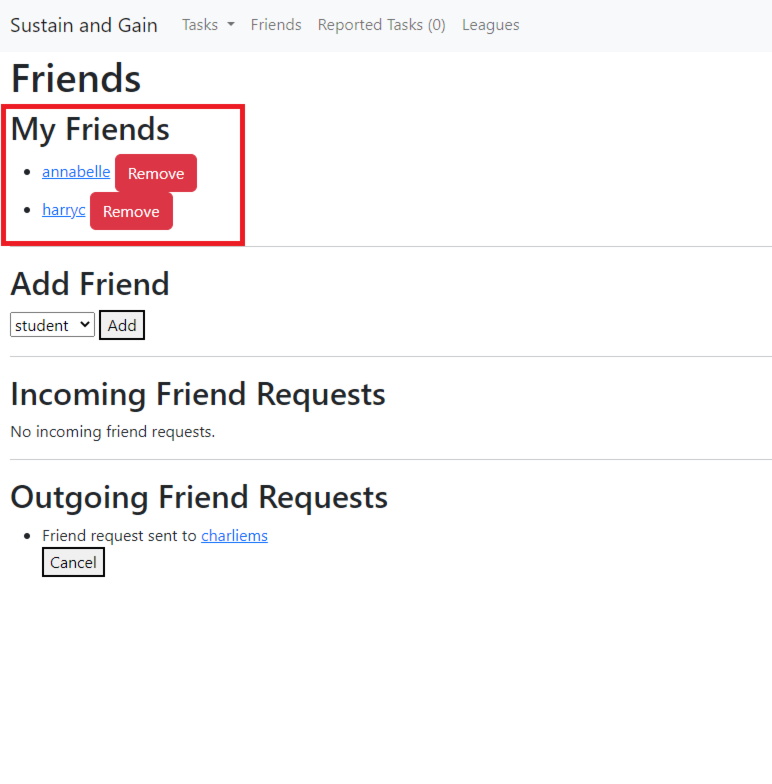
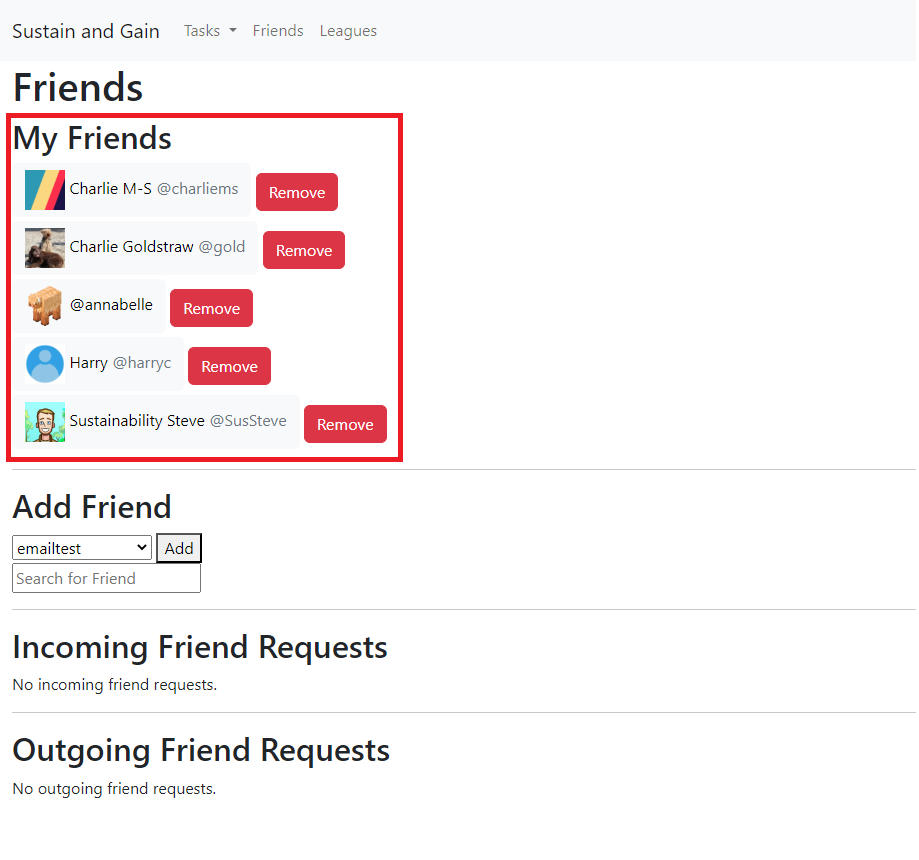
updated friends and profile doc page
added some marketing speak to the pages

Changed region(s): [[0.0, 0.0306, 0.5596, 0.8265], [0.0, 0.8571, 0.4352, 0.949], [0.6218, 0.0306, 0.6528, 0.0612]]

diff --git a/docs/the-game/profile.md b/docs/the-game/profile.md
@@ -2,12 +2,28 @@
 sidebar_position: 1
 ---
 
-# Profile
-The profile page allows you to view your own information. This information includes:
-- Profile Picture
-- About Section
-- Friends
-- Points
+# Your Personalized Profile Experience
+Welcome to your profile page! This is where you can showcase a brief description of yourself, add friends and keep track of your points. You have the power to make it unique and personalized just like you!
+
+## The Power of Profile Pictures
+First impressions matter! That's why we give great importance to your profile picture which perfectly captures who you are at a glance. It's displayed prominently at the top of your profile page.
+
+## Express Yourself with Your Bio
+We believe that everyone has their story to tell. Use the "About" section on your profile page as a platform to express yourself by sharing a brief bio or description about yourself!
+
+## Updating Your Profile for Success
+Want to update your information? Our "Edit Profile" and "Edit Bio" buttons on your profile page make it easy for you to update any relevant personal details or info.
+
+## Friends Help Friends Win!
+Curious about what your friends are up to? View their profiles using our user-friendly interface directly from yours! It's never been easier.
+
+## Points Equal Success
+An integral part of our gamified experience is earning points through completing tasks or activities on our platform. Track and celebrate all of the points you've accumulated from one convenient place!
+
+## Join Leagues Like A Pro!
+Competitive spirit burning inside? Join leagues with like-minded individuals - visit their pages directly from yours by clicking on them in one straightforward step!
+
+Make sure that YOUR story stands out - personalize and enhance every aspect of YOUR profile with us today!
 
 ![Overview Profile picture](./assets/profile1.png)
 
@@ -18,7 +34,7 @@ The about section allows you to add a brief bio or description of yourself.
 
 
 ## Editing Your Profile
-By clicking either the change or add link on the profile page you will be able to edit the information on your profile.
+By clicking either the "Edit Profile" button or "Edit Bio" button on the profile page you will be able to edit the information on your profile.
 ![Editing Profile](./assets/profile2.png)
 
 Once you have clicked either of these you will be taken to the profile update page.
@@ -31,8 +47,10 @@ From the profile page you are able to see a list of your friends as well as clic
 ![Friends List Profile](./assets/profile4.png)
 
 ## Points
-Finally, you are able to view the amount of points that you currently have as well as click the "Get more :)" text which will
+You are able to view the amount of points that you currently have as well as click on them which will
 take you to the available tasks page
 ![Points profile](./assets/profile5.png)
 
-
+## Leagues
+Finally, you are able to see the leagues you are a part of as well as click on them to go to their league page.
+![Leagues profile](./assets/profile6.png)

diff --git a/docs/the-game/friends.md b/docs/the-game/friends.md
@@ -4,13 +4,25 @@ sidebar_position: 2
 
 # Friends
 
-![Overview Friends picture](./assets/friends.png)
 
-From the friends page you are able to do 4 different things:
-- View your friends list
-- Add other friends from a list of users in a drop-down menu
-- See your incoming friend requests
-- See your outgoing friend requests
+# Your Friends, Your Community
+The friends page is where the magic happens! Connect with like-minded individuals, nurture friendships and watch your community grow!
+
+## My Friends - Discover a Community Built on Trust
+Our platform believes in fostering authentic connections through our Friends feature. View all of your friends' profiles and easily navigate through their pages to see what they're up to!
+
+## Add Friends - Build Relationships with Ease
+Meeting new people can sometimes be challenging, but not anymore! Browse our user-friendly interface and use either the dropdown menu or search bar to find other users you would like to connect with. Building new relationships has never been easier.
+
+## Incoming Friend Requests - Gaining New Perspectives 
+Expand your network by accepting incoming friend requests from people you may not have met otherwise. You never know, they just might become an integral part of your personal or professional life!
+
+## Outgoing Friend Requests - Exude Confidence and Expand Your Influence 
+Grow your network by sending out friend requests confidently! Manage all of your outgoing friend requests easily by viewing them all in one place- cancel any outgoing request at just one click.
+
+We believe that building positive relationships is a key component to leading a happy life both professionally and personally. Join us today and become part of our thriving community!
+
+![Overview Friends picture](./assets/friends.png)
 
 ## My Friends
 The friends list will display all of the accounts you are currently friends with the ability to click on their name to view their profile.
@@ -21,6 +33,7 @@ You Are also able to click on the remove friends button and this will the accoun
 ## Add Friends
 In the add friends section you are able to click on the drop-down menu and view accounts that you are not already friends
 with. Once you have selected an account you can press the add button which will then send the request.
+You are also able to search for an account with the text box below the drop down menu.
 ![Add Friends](./assets/friends3.png)
 
 ## Incoming Friend Requests
